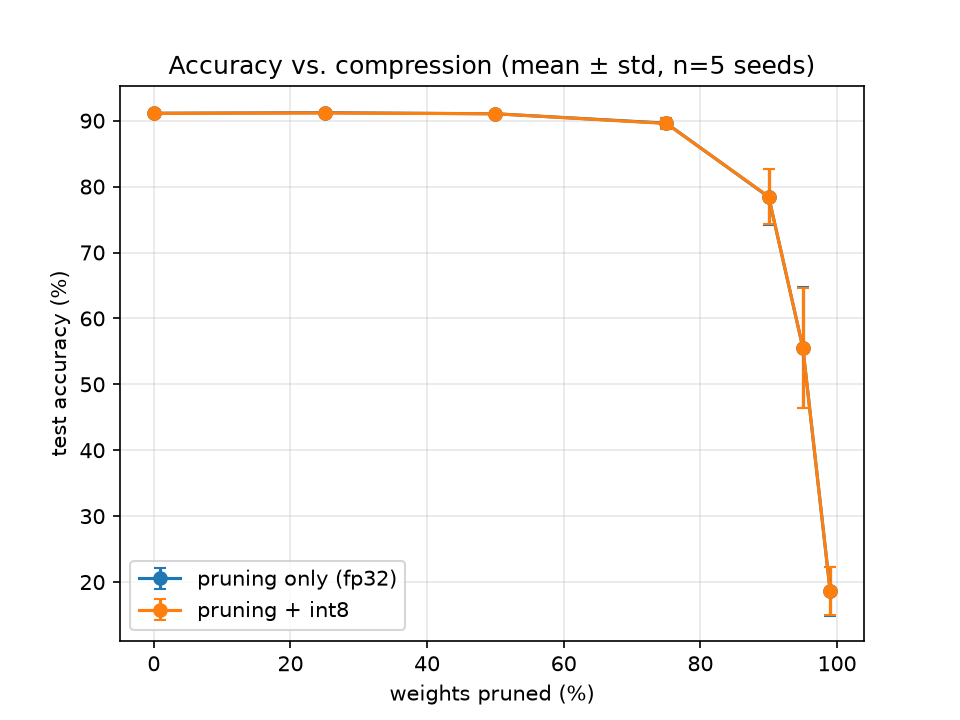
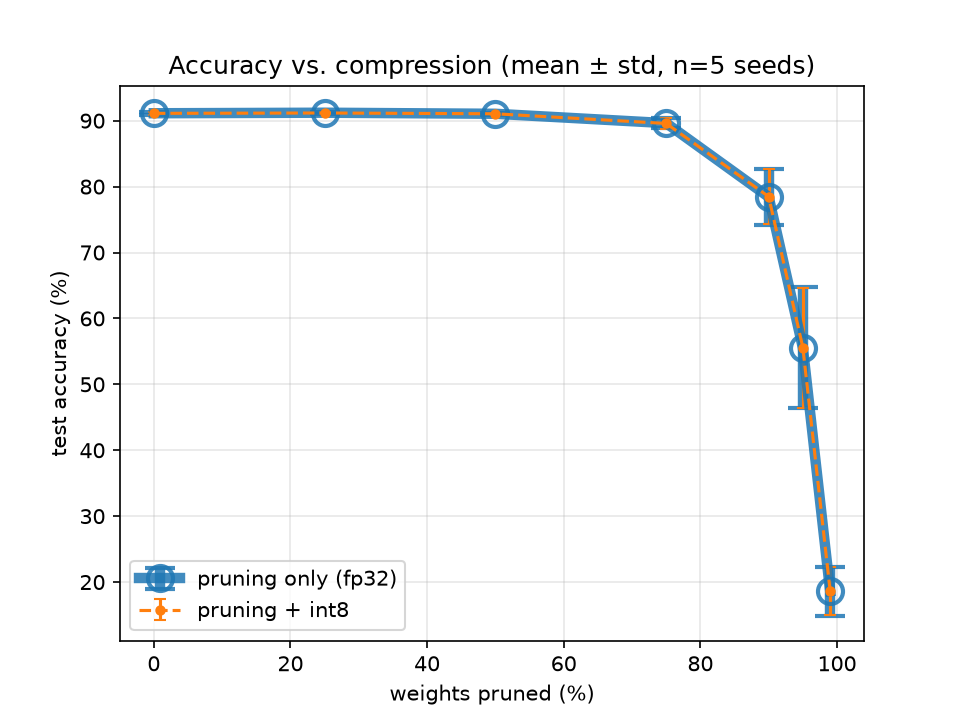
make pruning only line visible in accuracy plot

Changed region(s): [[0.125, 0.1222, 0.875, 0.8556], [0.125, 0.7639, 0.2188, 0.8556]]

diff --git a/src/plots.py b/src/plots.py
@@ -22,9 +22,11 @@ def main(inp="results/results.json"):
     rows = json.load(open(inp))
     n = len({r["seed"] for r in rows})
 
-    for m, label in [("prune", "pruning only (fp32)"), ("prune+int8", "pruning + int8")]:
+    styles = [("prune", "pruning only (fp32)", dict(lw=5, ms=12, mfc="none", mew=2, capsize=7, alpha=.85)),
+              ("prune+int8", "pruning + int8", dict(lw=1.5, ms=4, ls="--", capsize=3))]
+    for m, label, kw in styles:
         x, mu, sd = agg(rows, m, lambda r: r["accuracy"] * 100)
-        plt.errorbar(x, mu, yerr=sd, marker="o", capsize=3, label=label)
+        plt.errorbar(x, mu, yerr=sd, marker="o", label=label, **kw)
     plt.xlabel("weights pruned (%)"); plt.ylabel("test accuracy (%)")
     plt.title(f"Accuracy vs. compression (mean ± std, n={n} seeds)")
     plt.grid(alpha=.3); plt.legend()
